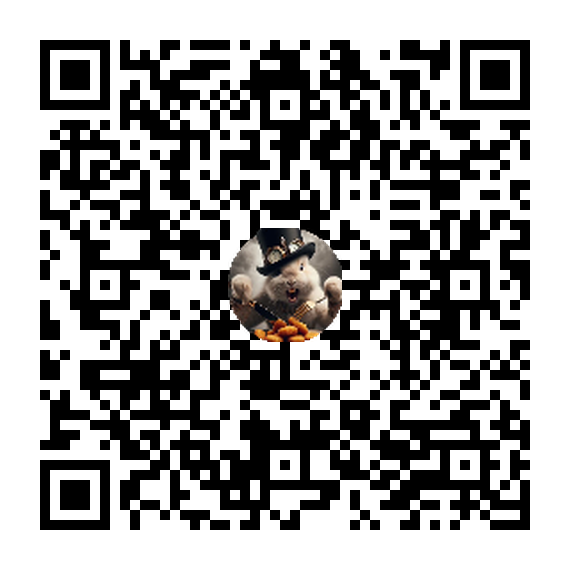
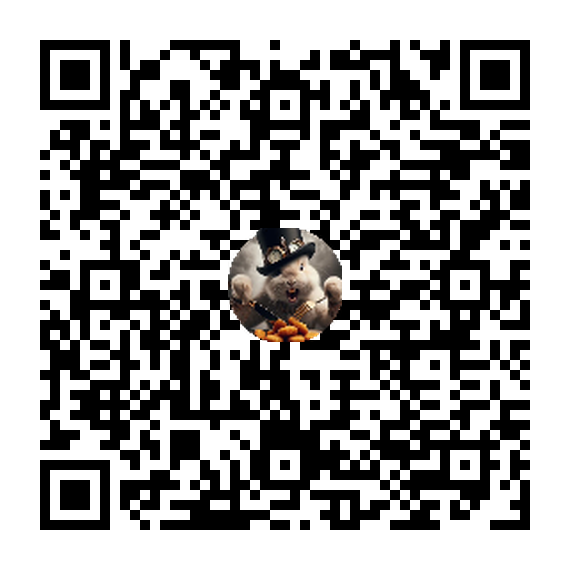
fix links

diff --git a/web2/wfk/lets_eat.html b/web2/wfk/lets_eat.html
@@ -4,7 +4,7 @@
     <meta charset="UTF-8">
     <meta name="viewport" content="width=device-width, initial-scale=1.0">
     <title>The Web 2.0 Utensils Bridge</title>
-    <link rel="stylesheet" href="styles.css?v=2.0.2">
+    <link rel="stylesheet" href="styles.css?v=2.0.3">
     <link rel="icon" type="image/svg+xml" href="../../assets/images/wfk_64x64.png">
 </head>
 <body>
@@ -12,10 +12,10 @@
         <!-- PBJs added dynamically by JavaScript -->
     </div>
     <div class="qr-code-container">
-        <a href="https://ape.store/base/0xda3d2a68cfe7e1588554aee8afd553f91a14647f" target="_blank">
+        <a href="https://dexscreener.com/base/0x72213748e65d89144d1a5263c415cec6d71a18d7" target="_blank">
             <img src="../../assets/images/wfk_qr.png" alt="QR Code">
         </a>
     </div>
-    <script src="scripts.js?v=2.0.2"></script>
+    <script src="scripts.js?v=2.0.3"></script>
 </body>
 </html>

diff --git a/scripts/qr_code.py b/scripts/qr_code.py
@@ -36,7 +36,7 @@ def generate_qr_code(data, file_name, logo_path=None):
     print(f"QR code generated and saved as {file_name}")
 
 # Input data
-data = "https://ape.store/base/0xda3d2a68cfe7e1588554aee8afd553f91a14647f"
+data = "https://dexscreener.com/base/0x72213748e65d89144d1a5263c415cec6d71a18d7"
 file_name = "wfk_qr.png"
 logo_path = "../assets/images/wfk_64x64.png"  # Replace with the path to your logo image
 
